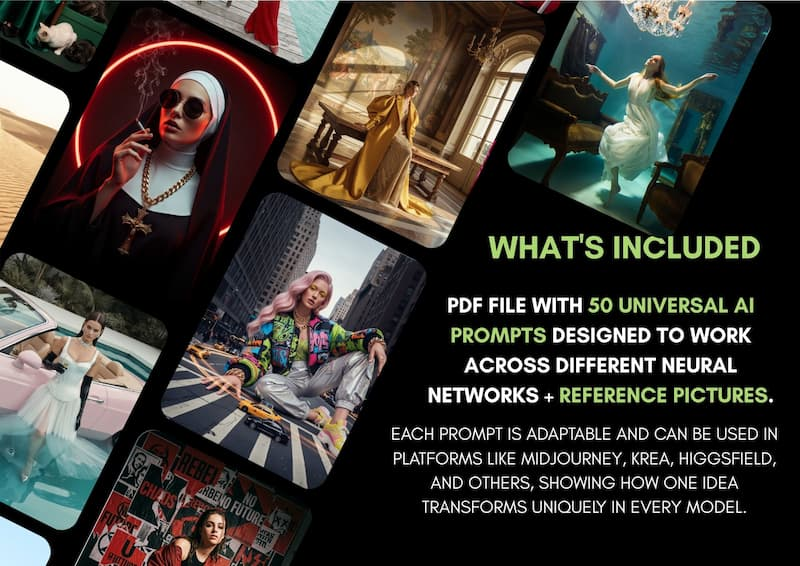
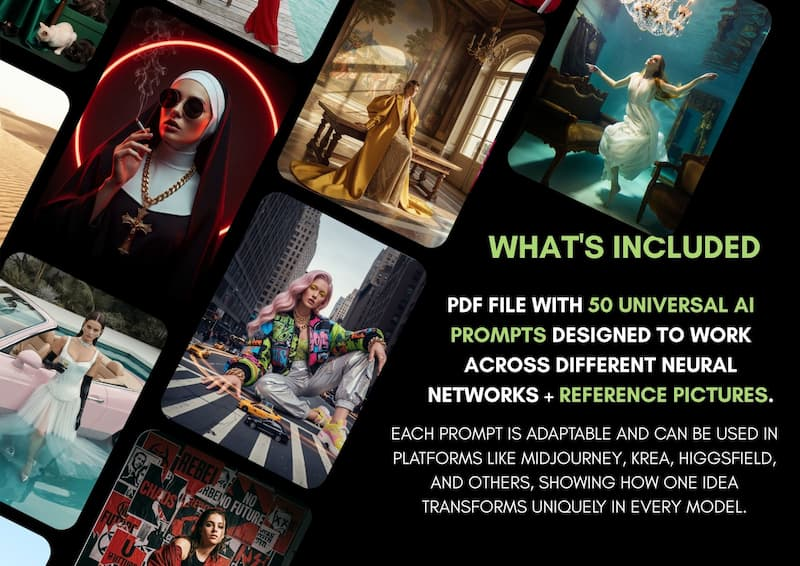
Update images for 27

diff --git a/src/constants/promptbooks/index.ts b/src/constants/promptbooks/index.ts
@@ -70,7 +70,7 @@ export const PROMTBOOKS: Record<string, PromptBookRaw> = {
     number: 50,
     links: {},
     tags: ["fashion", "women"],
-    images: [2, 3, 4, 5, 6, 7, 8, 9, 10, 11, 12, 13],
+    images: [1, 3, 4, 5, 6, 7, 8, 9, 10, 11, 12, 13],
     price: {
       ru: 1000,
       en: 18,
